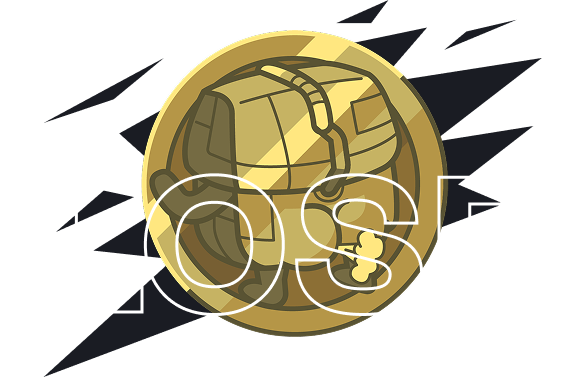
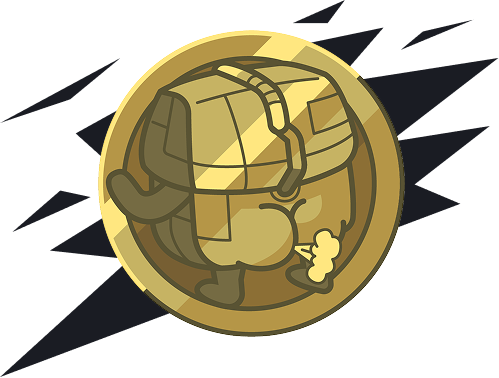
split text with win/lose image

diff --git a/src/FlippingStars.css b/src/FlippingStars.css
@@ -302,6 +302,37 @@ body::-webkit-scrollbar-track,
   animation: progressBarSlideIn 0.5s ease-out;
 }
 
+/* WIN/LOSE text styling */
+.fc_win-lose-text {
+  position: absolute;
+  top: 70%; /* Position below fc_win-reward-progress (which is at 75%) */
+  left: 50%;
+  transform: translate(-50%, -50%);
+  z-index: 1399; /* Below fc_win-reward-progress (which is at 1400) */
+  text-align: center;
+  -webkit-text-stroke-width: 2px;
+  -webkit-text-stroke-color: #FFF;
+  font-family: "PP Neue Machina";
+  font-size: 107.37px;
+  font-style: normal;
+  font-weight: 700;
+  line-height: normal;
+  color: transparent; /* Make text transparent so only stroke is visible */
+  animation: winLoseTextSlideIn 0.5s ease-out;
+  pointer-events: none; /* Prevent text from blocking interactions */
+}
+
+@keyframes winLoseTextSlideIn {
+  from {
+    opacity: 0;
+    transform: translate(-50%, -50%) scale(0.8);
+  }
+  to {
+    opacity: 1;
+    transform: translate(-50%, -50%) scale(1);
+  }
+}
+
 @keyframes progressBarSlideIn {
   from {
     opacity: 0;

diff --git a/src/FlippingStars.js b/src/FlippingStars.js
@@ -1000,6 +1000,12 @@ const FlippingStars = ({ onClose, setShowProfileView, setActiveTab }) => {
           className="fc_logo-image" 
           style={{ display: !show3D ? 'block' : 'none' }}
         />
+        {/* WIN/LOSE text - displays above the logo when showing results */}
+        {!show3D && (logoImage === winFlippinStar || logoImage === loseFlippinStar) && (
+          <div className="fc_win-lose-text">
+            {logoImage === winFlippinStar ? 'WIN' : 'LOSE'}
+          </div>
+        )}
         {/* Progress bar showing win reward - displays 4 digits and starlet icon */}
         {winReward !== null && (
           <div className="fc_win-reward-progress">
